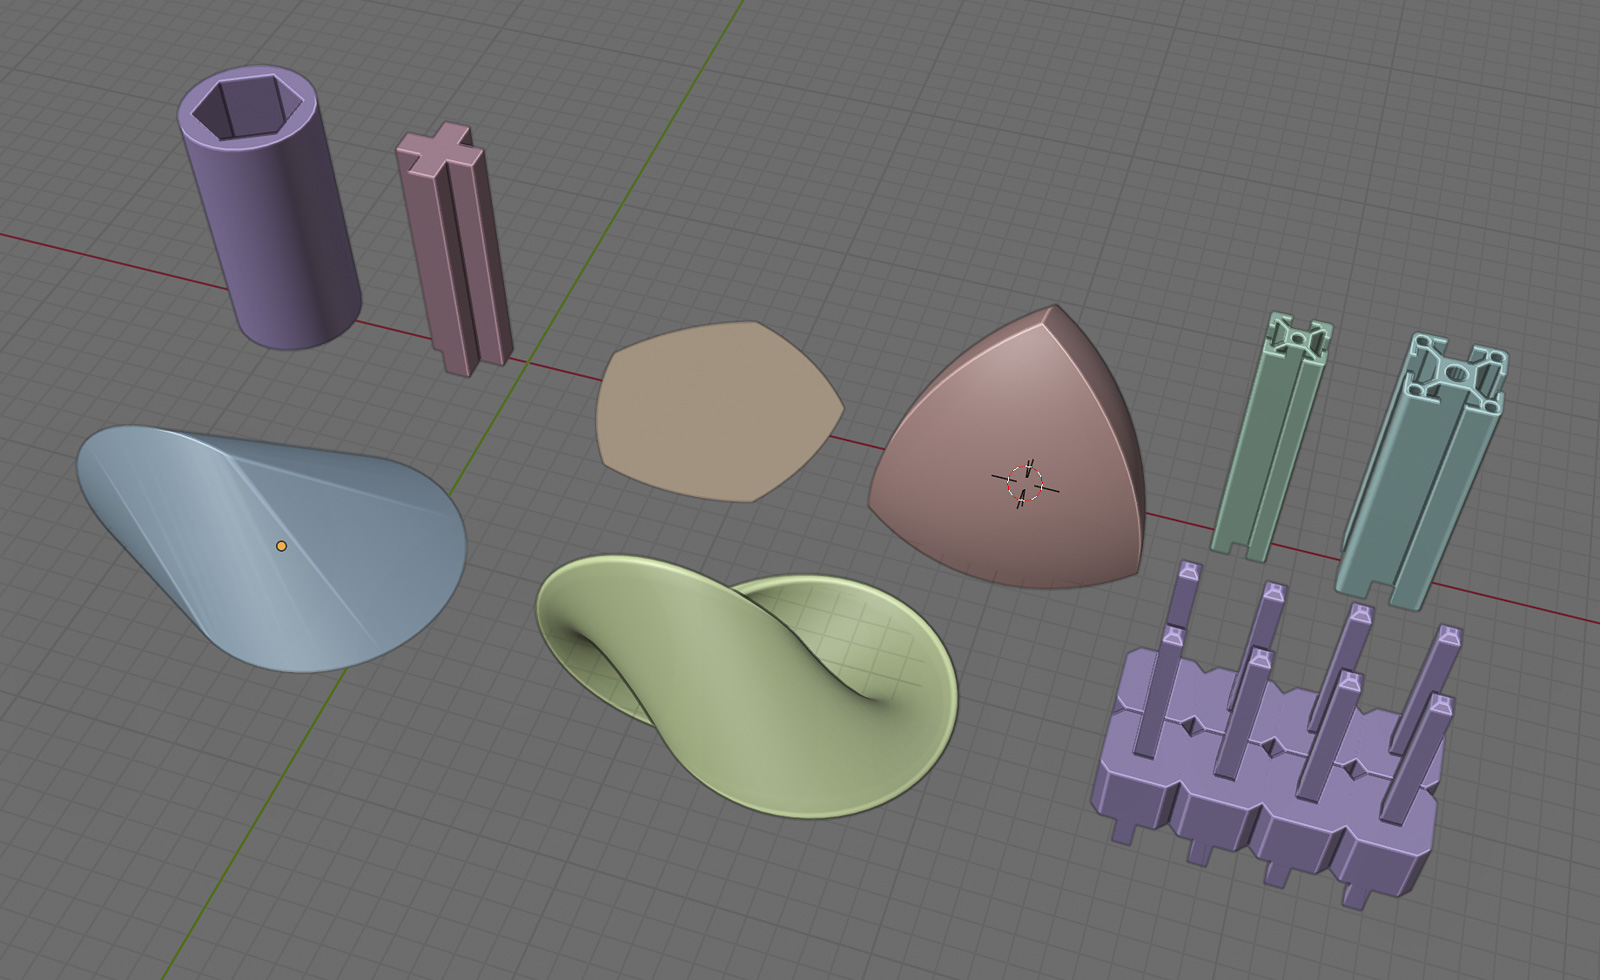
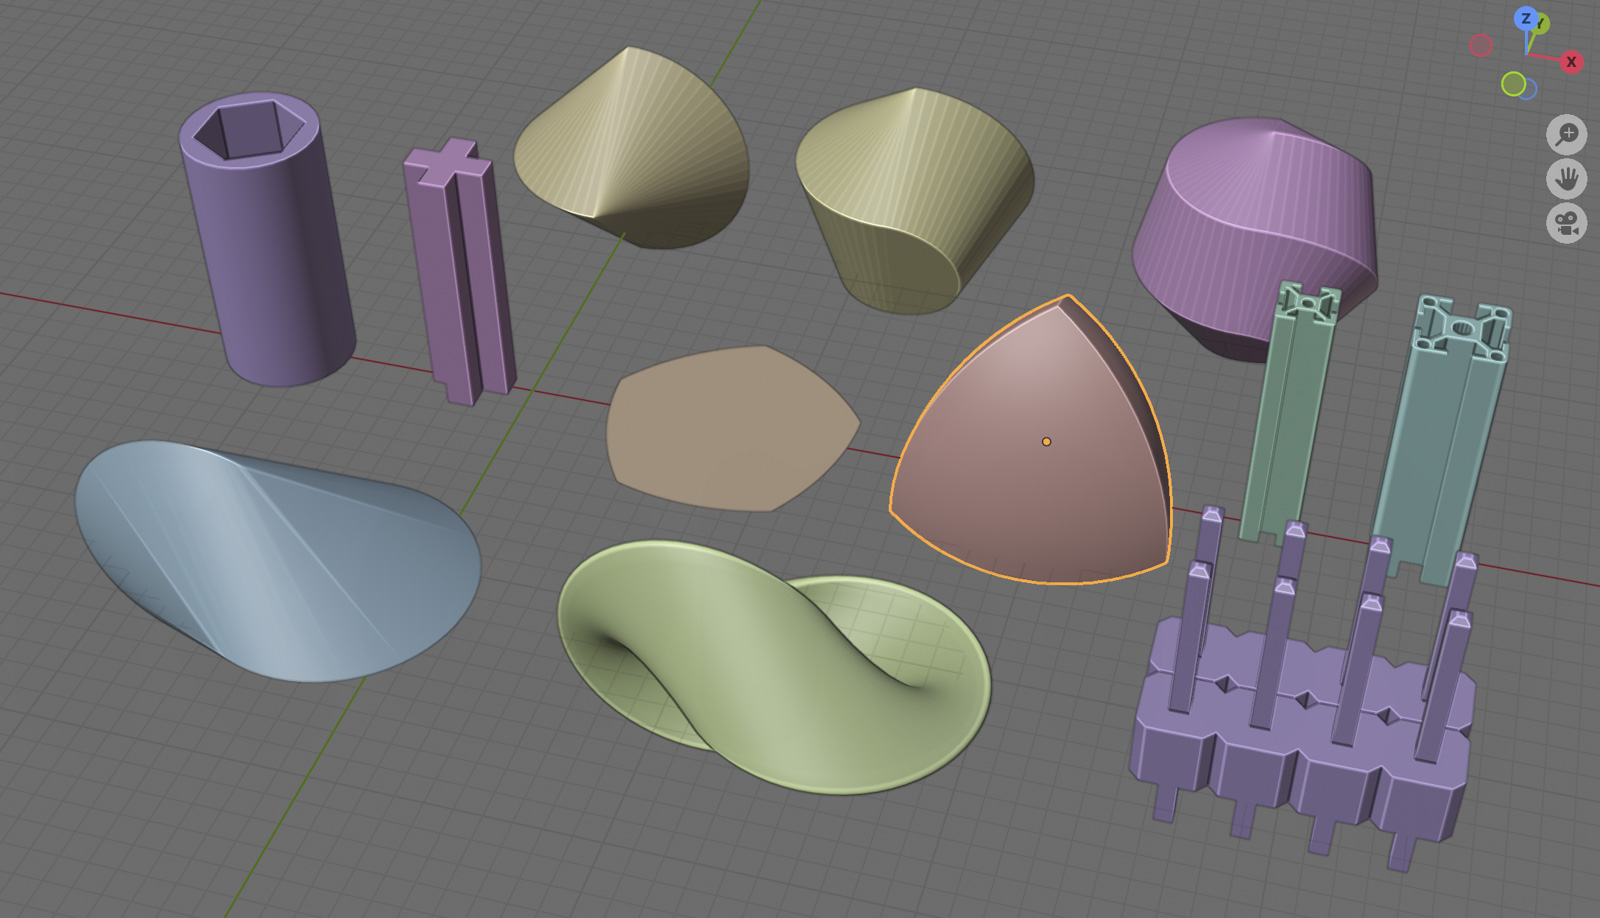
readmeにスフェリコンとblend1ファイルを削除するスクリプトについて追記

diff --git a/README.md b/README.md
@@ -11,6 +11,7 @@
 	- 十字架を掃引した形状([Add Cross Extrusion](#add-cross-extrusion))
 	- ルーローの多角形([Add Reuleaux Polygon](#add-reuleaux-polygon))
 	- ルーローの四面体([Add Reuleaux Tetrahedron](#add-reuleaux-tetrahedron))
+	- スフェリコン([Add Sphericon](#add-sphericon))
 	- オロイド／アンチオロイド([Add Oloid](#add-oloid))
 	- アルミフレーム([Add Aluminum Extrusion](#add-aluminum-extrusion))
 	- ピンヘッダー([Add Pin Header](#add-pin-header))
@@ -19,9 +20,14 @@
 - オブジェクト／コレクションをSTL形式で簡単にエクスポート([Export Selection as STL](#export-selection-as-stl), [Export Collection as STL](#export-collection-as-stl))
 - 平面上にある辺（溶解可能な辺）を選択([Select edges on Fair Surface](#select-edges-on-fair-surface))
 - 言語設定を切り替えられるパネル([Language Panel](#language-panel))
+- 【おまけ】blend1ファイルを再帰的に削除するPythonスクリプト([blend1_cleaner.py](#blend1_cleanerpy))
 
 ![romly_blender_addonで作成可能なオブジェクトの一部](images/support_objects.jpg)
 作成可能なオブジェクトの一部
+
+
+
+
 
 ## インストール方法
 
@@ -80,7 +86,18 @@ XY平面にルーローの多角形を作成します。正しくルーローの
 
 ![Add Reuleaux Tetrahedron](images/add_reuleaux_tetrahedron.jpg)
 
-ルーローの四面体を作成します。UV球またはICO球の共通部分を使って作成する方法と、頂点を計算して作成する方法を選択できます。前者の場合、メッシュの分割数が少ないと四面体の角が出ず形状が破綻してしまいます。いずれの作成方法でも、分割数を最小にすると通常の正四面体となります。
+ルーローの四面体を作成します。UV球またはICO球の共通部分を使って作成する方法と、頂点を計算して作成する方法を選択できます。前者の場合、メッシュの分割数が少ないと四面体の角が出ず形状が破綻してしまいます。
+いずれの作成方法でも、分割数を最小にすれば通常の正四面体を作れます。
+
+-----
+
+### Add Sphericon
+
+*Add Menu(<kbd>Shift+A</kbd>) → *Romly*
+
+![Add Sphericon](images/add_sphericon.jpg)
+
+スフェリコン形状のメッシュを作成します。一般的な正方形の回転体から作るスフェリコンの他、任意の多角形から作成することが可能で、左右のずらし量も指定できます。
 
 -----
 
@@ -178,3 +195,50 @@ Relative OffsetではなくConstant Offsetを設定した状態のArrayモデフ
 
 アドオンを英語対応するにあたって、デバッグで頻繁に言語設定を切り替える必要に迫られたのと、4.1から設定画面の言語ドロップダウンが1列になってしまい、非常に選択しづらくなったので作りました。日本語と英語以外の選択に関しては特に何も考えてなくて、デバッグ用に大きく変わりそうな言語をテキトーに選んだだけです。
 
+おまけでblenderのバージョンと編集中のファイルのバージョンを表示します。
+
+
+
+
+
+-----
+
+
+
+
+
+## blend1_cleaner.py
+
+【おまけ】blend1ファイルを再帰的に削除するPythonスクリプト
+
+`extra/blend1_cleaner.py`
+
+指定されたディレクトリ以下にある`*.blend1`ファイルを再帰的に検索し、一括で削除するPythonスクリプトです。[Send2Trash](https://pypi.org/project/Send2Trash/)モジュールがインストールされている環境であれば、削除せずにゴミ箱に移動することもできます。
+
+**ファイルを削除する機能を持つスクリプトです。バグのために予期せぬファイルを削除してしまうことがあるかもしれません。当方は一切責任を負いかねます。了承の上自己責任でご利用下さい。**
+
+
+
+### 使い方
+
+```
+python blend1_cleaner.py "(検索を開始するディレクトリ)" [-d] [-h]
+```
+
+#### オプション
+
+##### `-d, --delete`
+
+ファイルをゴミ箱に移動せず、完全に削除する場合に指定します。Send2Trashモジュールがインストールされていない環境では常に完全に削除（`-d`を指定した状態）しかできません。
+
+##### `-h, --help`
+
+ヘルプを表示します。
+
+
+
+### 【オプション】send2trashのインストール
+
+```
+pip install Send2Trash
+```
